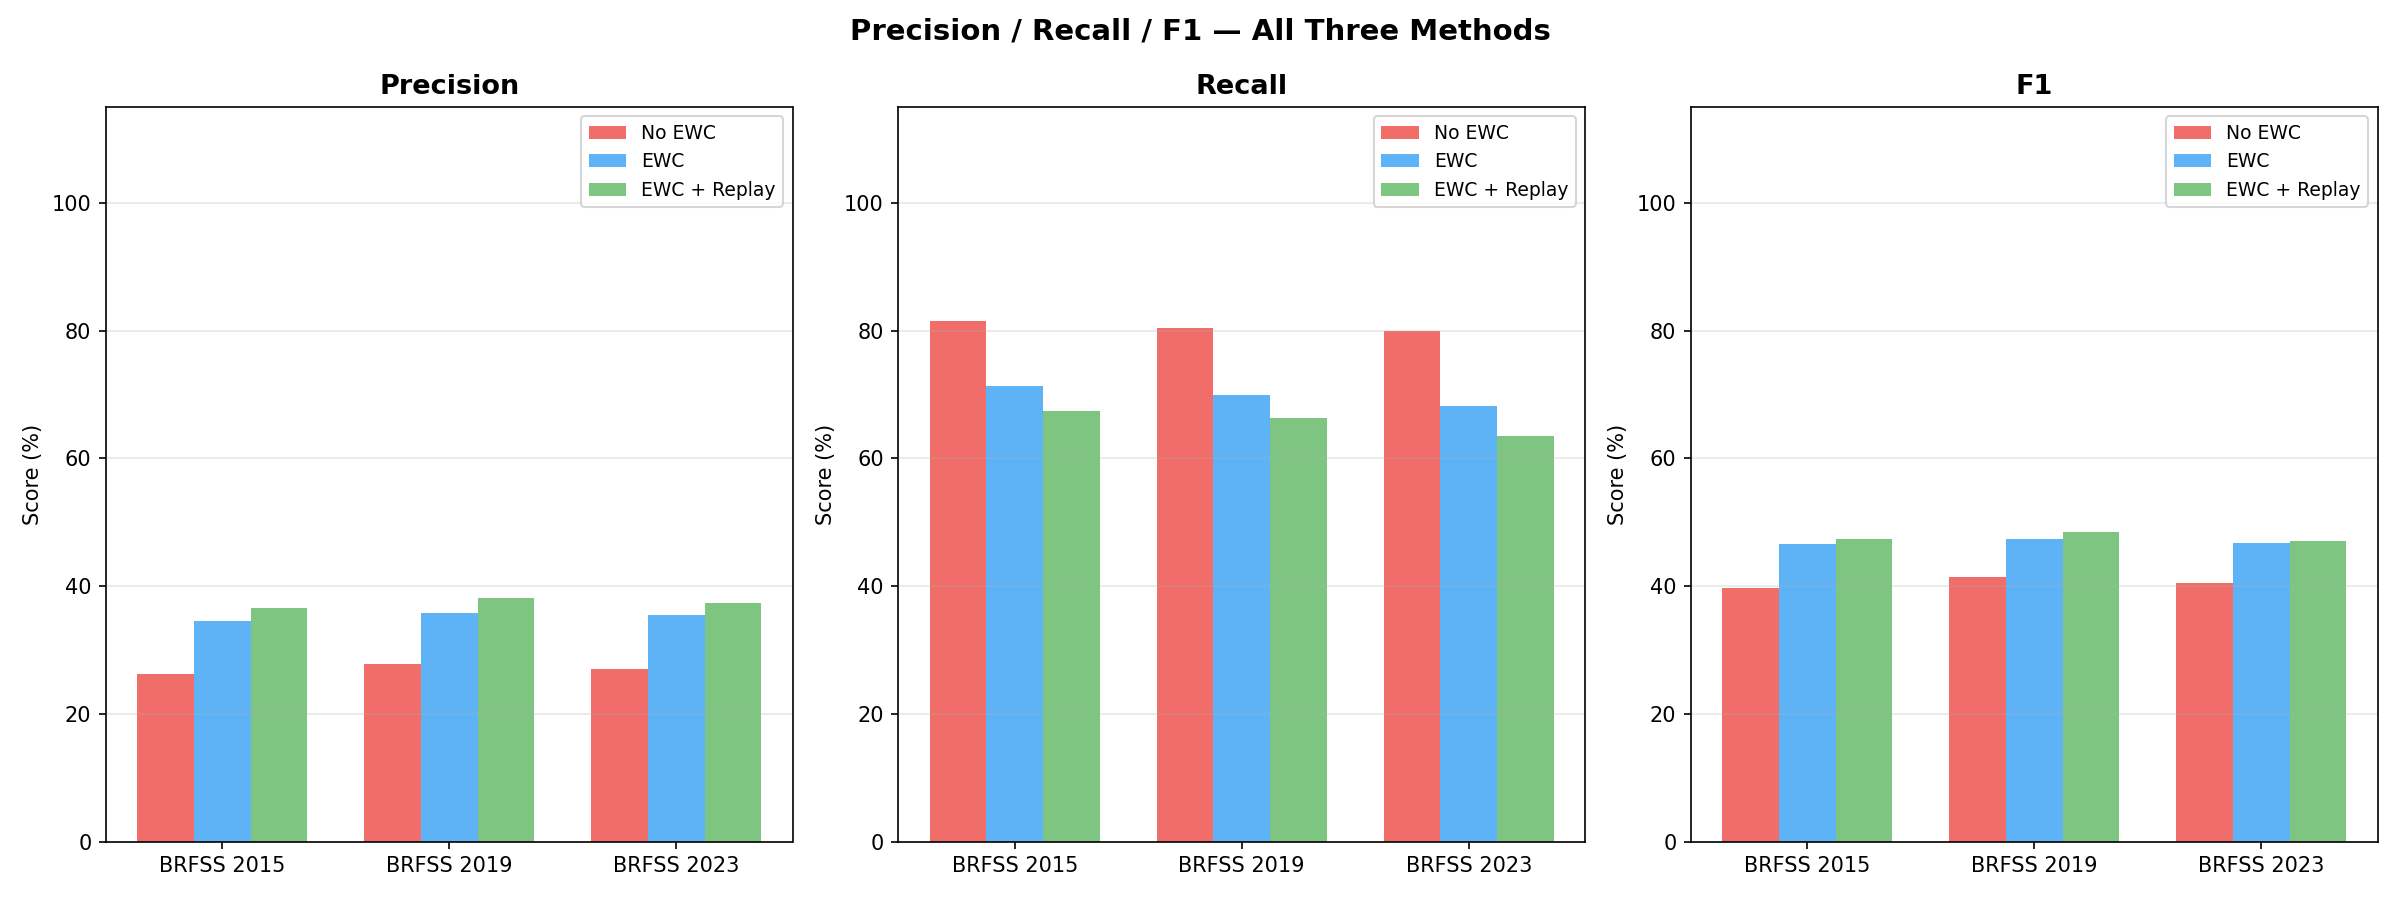
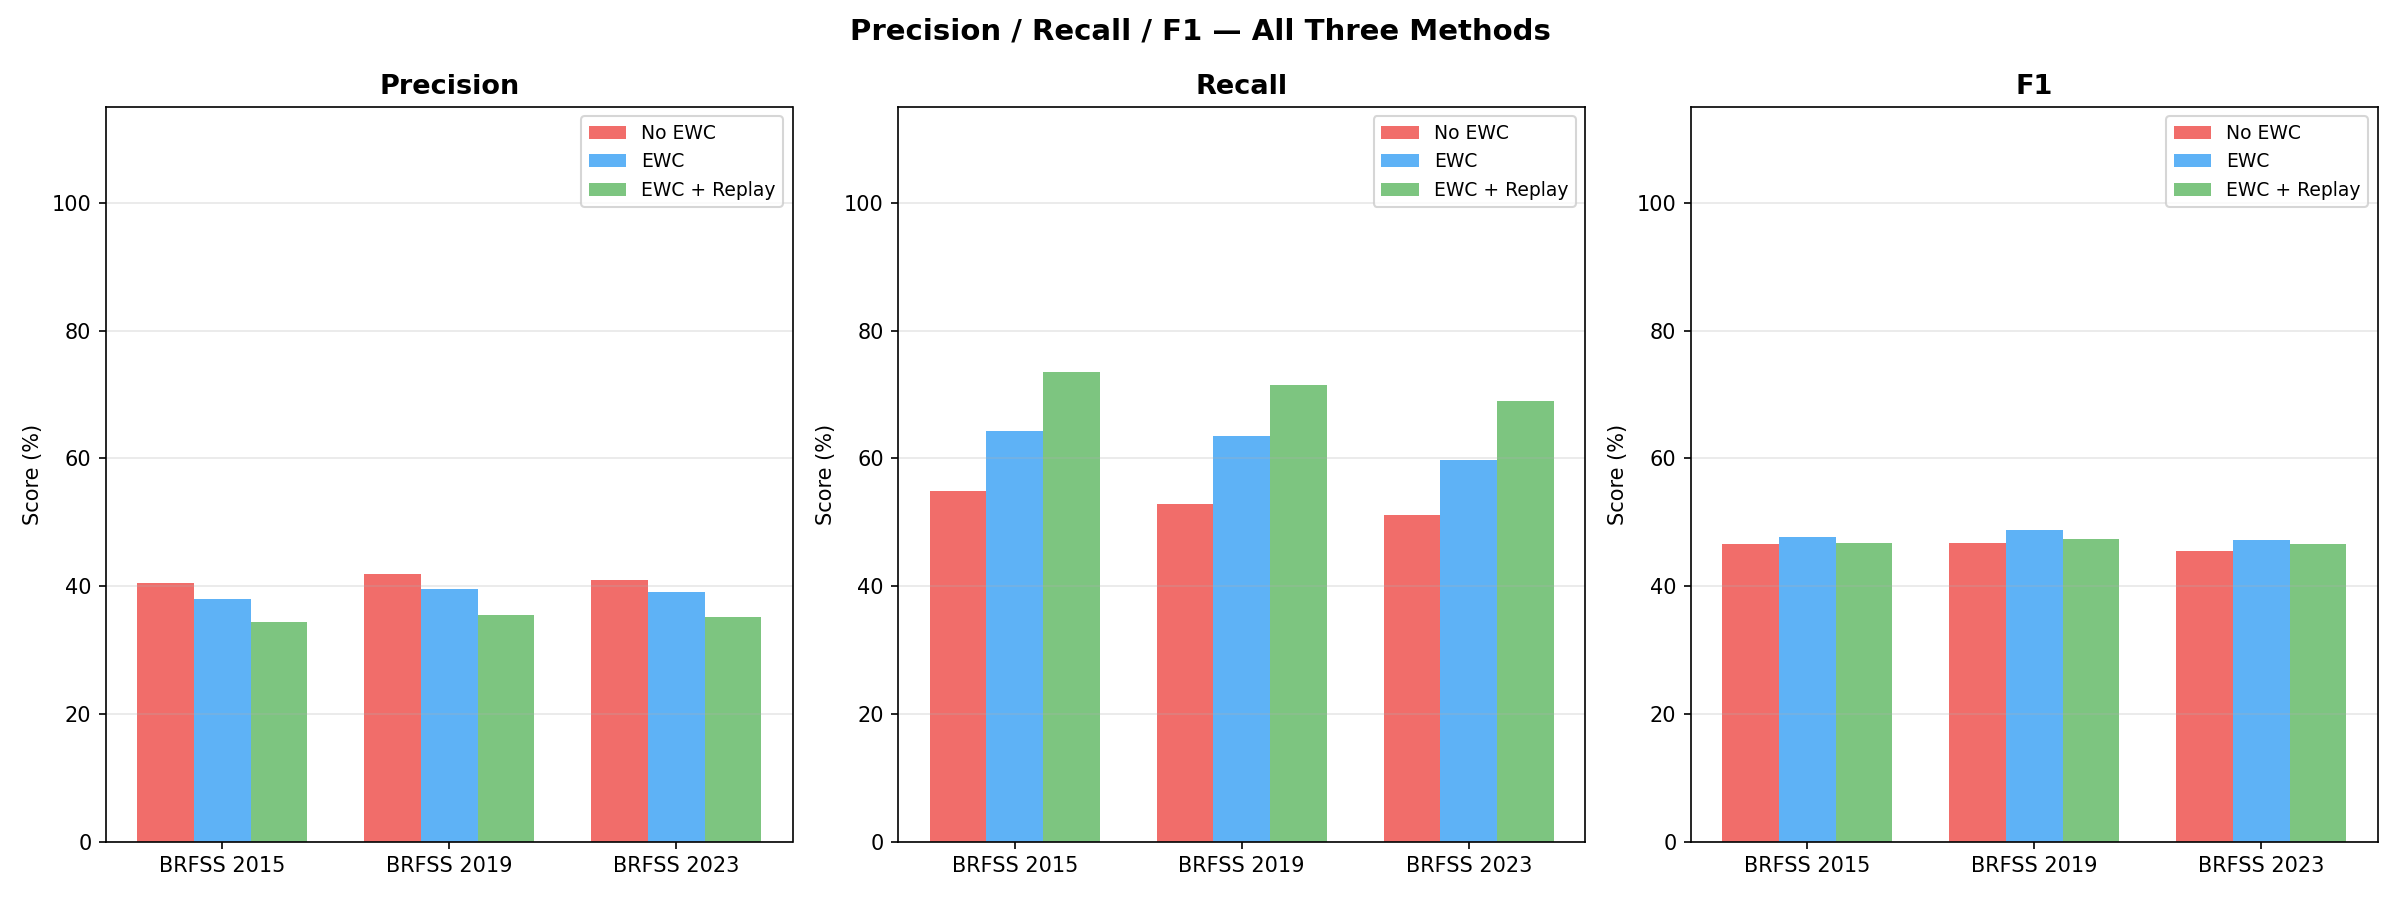
New runs with 20000 replay

diff --git a/main.py b/main.py
@@ -67,7 +67,7 @@ BATCH_SIZE         = 64
 MAX_FISHER_SAMPLES = 5000
 
 # Replay buffer settings
-REPLAY_SAMPLES_PER_TASK = 2000   # samples stored per past task (up from 500)
+REPLAY_SAMPLES_PER_TASK = 20000   # samples stored per past task (up from 500)
 REPLAY_RATIO            = 0.25   # 25% of each batch is replay data
 
 # Transformer settings
